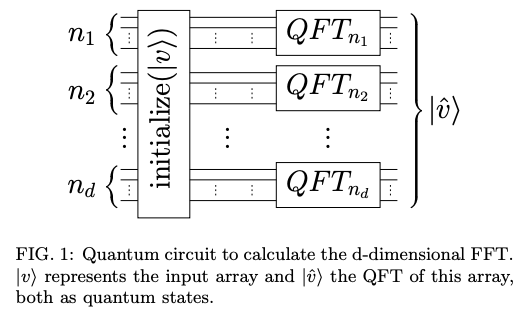
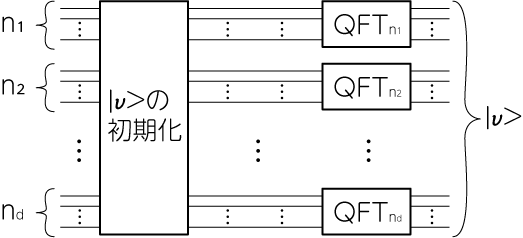
Modify algorithm/multidimensional_qft.ipynb & multidimensioanl_qft.py

diff --git a/docs/ja/algorithm/multidimensional_qft.py b/docs/ja/algorithm/multidimensional_qft.py
@@ -50,12 +50,13 @@
 #
 # ```{figure} assets/multidimensional_qft_01.png
 # :scale: 100 %
+# :alt: quantum circuit to calculate the d-dimensional FFT from Pfeffer (2023)
 #
-# [Pfeffer (2023)](https://arxiv.org/abs/2301.13835)より。
+# [Pfeffer (2023)](https://arxiv.org/abs/2301.13835)より、d次元の FFT 回路を計算するための量子回路図。
 # ```
 #
 # 上図の initialize($\vert v \rangle$)は、入力データに応じて量子状態を初期化するサブルーチンを表しています。
-# 量子状態を初期化する手法にはいくつかありますが、以降に示す実装では [Möttönen の振幅園コーディング](https://jij-inc-qamomile.readthedocs-hosted.com/latest/ja/algorithm/mottonen-amplitude-encoding/) を用いています。
+# 量子状態を初期化する手法にはいくつかありますが、以降に示す実装では [Möttönen の振幅エンコーディング](https://jij-inc-qamomile.readthedocs-hosted.com/latest/ja/algorithm/mottonen-amplitude-encoding/) を用いています。
 # [Pfeffer 2023](https://arxiv.org/abs/2301.13835) では古典的な行・列分解にヒントを得て、$d$ 次元配列に対して $d$ 個の1次元 QFT をテンソル積構造で並列実行することで、$M=(2^n)^d$ の配列に対して $\mathcal{O} (\log^2 (M)/d)$ の計算量を達成しました。
 # しかしこの手法は、各次元サイズが $N_i = 2^{n_i}$ でなければならないという制限がありました。
 # そこで、[Sampei et al. (2025)](https://pubs.rsc.org/en/content/articlelanding/2025/cp/d4cp04399e)ではこの制限を解消する手法を提案しました。
@@ -77,7 +78,7 @@
 # ### フラットトップ窓関数の適用
 #
 # 領域の切り捨て/ゼロ埋めだけを適用したデータの周波数解析を行うと、本来のスペクトルの横に余分な成分が生じます。
-# これをサイドローブと呼び、これは領域を切り取ったことで生まれるアーティファクトです。
+# これをサイドローブと呼び、これは領域を切り取ったことで生まれる人工的なスペクトルです。
 # そこでこれを抑えるために、切り捨て/ゼロ埋めされた入力データ区間の両端を滑らかにゼロに近づける重みづけ関数 (窓関数) を導入しましょう。
 # この論文では、次のようなフラットトップ関数を用いています。
 #
@@ -140,10 +141,12 @@ plt.show()
 #
 # このデータはサイズが2のべき乗でないために、そのままでは実装されたQFTを適用することができません。
 # そこでゼロ埋めを施すことで、サイズを2のべき乗に拡張しましょう。
+# ここで用いる量子ビット数は、$x, y$ 方向ともに3量子ビットずつとします。
+# すなわち、グリッド数を $2^3 = 8$ になるようにゼロ埋めを行います。
 
 # %%
 def padding_array(array_2d: np.ndarray, num_x_target: int, num_y_target: int) -> np.ndarray:
-    num_x, num_y = array_2d.shape
+    num_x, num_y = array_2d.shape    
     pad_width_x = num_x_target - num_x
     pad_width_y = num_y_target - num_y
     pad_x_left = int(np.ceil(pad_width_x / 2.0))
@@ -153,6 +156,8 @@ def padding_array(array_2d: np.ndarray, num_x_target: int, num_y_target: int) ->
     array_2d_padding = np.pad(array_2d, ((pad_x_left, pad_x_right), (pad_y_left, pad_y_right)))
     return array_2d_padding
 
+Nqx = 3
+Nqy = 3
 Nx_target = 2 ** Nqx
 Ny_target = 2 ** Nqy
 f_padding = padding_array(f, Nx_target, Ny_target)
@@ -198,6 +203,7 @@ plt.xlabel("x", fontsize=14)
 plt.ylabel("y", fontsize=14)
 plt.show()
 
+
 # %% [markdown]
 # サイドローブを抑えるために、中心領域のみを切り出しつつ、ゆっくりと減衰するような広がった概形になっていることがわかります。
 # この窓関数をゼロ埋めされたデータに適用し、2次元QFTを実行しましょう。
@@ -205,12 +211,9 @@ plt.show()
 # %% [markdown]
 # ### 多次元QFT
 #
-# ここで用いる量子ビット数は、$x$ 方向に3量子ビットと $y$ 方向に3量子ビットの、計6量子ビットとします。
+# Qamomileの`QFT`クラスを用いて、多次元 QFT を実装しましょう。
 
 # %%
-Nqx = 3
-Nqy = 3
-
 def apply_partial_qft(qubits, start, length):
     qft_gate = QFT(length)
     qubit_args = [qubits[start+i] for i in range(length)]
@@ -236,6 +239,7 @@ def qft_for_multidimension(inputs: qmc.Vector[qmc.Float]) -> qmc.Vector[qmc.Bit]
 # ### 回路のトランスパイル
 #
 # 先ほど実装したQFT回路をトランスパイルしましょう。
+# Qiskitバックエンドでコンパイルします。
 # このとき、`bindings`に先ほどのデータを入力します。
 
 # %%
@@ -293,7 +297,8 @@ axes[0].set_ylabel("ky")
 im5 = axes[1].pcolor(prob, vmin=vmin, vmax=vmax, cmap="viridis")
 axes[1].set_title("Quantum")
 axes[1].set_xlabel("kx")
-# 両プロットで共通の 1 本のカラーバー
+print("Classical peak value: {}".format(prob_classical.max()))
+print("Quantum peak value: {}".format(prob.max()))
 fig.colorbar(im5, ax=axes, fraction=0.046, pad=0.04)
 plt.show()
 
@@ -333,11 +338,13 @@ axes[0].set_ylabel("ky")
 im7 = axes[1].pcolor(prob2, vmin=vmin, vmax=vmax, cmap="viridis")
 axes[1].set_title("Quantum")
 axes[1].set_xlabel("kx")
+print("Classical peak value: {}".format(prob_classical2.max()))
+print("Quantum peak value: {}".format(prob2.max()))
 fig.colorbar(im7, ax=axes, fraction=0.046, pad=0.04)
 plt.show()
 
 # %% [markdown]
-# 窓関数を導入することで、ピークの値は下がっているものの、サイドローブの範囲が局在化していることがわかります。
+# 窓関数を適用する以前よりピークの値は下がっているものの、サイドローブの範囲が局在化していることがわかります。
 
 # %% [markdown]
 # ## まとめ

diff --git a/docs/ja/algorithm/index.md b/docs/ja/algorithm/index.md
@@ -16,3 +16,4 @@ Qamomileで実装した具体的な量子アルゴリズム例です。
 - [Steane [[7,1,3]] 符号](steane_code) — Hamming [7,4,3] 符号からのCSS構成、6スタビライザー、横断的Hadamard
 - [Quantum Selected Configuration Interaction (QSCI)](qsci) — 量子状態からビット列をサンプリングして有効ハミルトニアンを構築し、変分原理の保証付きで古典的に対角化する
 - [Möttönen振幅エンコーディング](mottonen_amplitude_encoding) — Gray符号Ry/Rz多重制御回転で任意の実数・複素振幅ベクトルを準備する。3つの入力モード（具体値、バインドされた`Vector[Float]`、ランタイムパラメトリックな角度）を扱う
+- [多次元量子フーリエ変換](multidimensional_qft) — 多次元量子フーリエ変換の実装例の紹介、さらにグリッド数が2のべき乗でない場合に対応するための古典前処理手法を示した